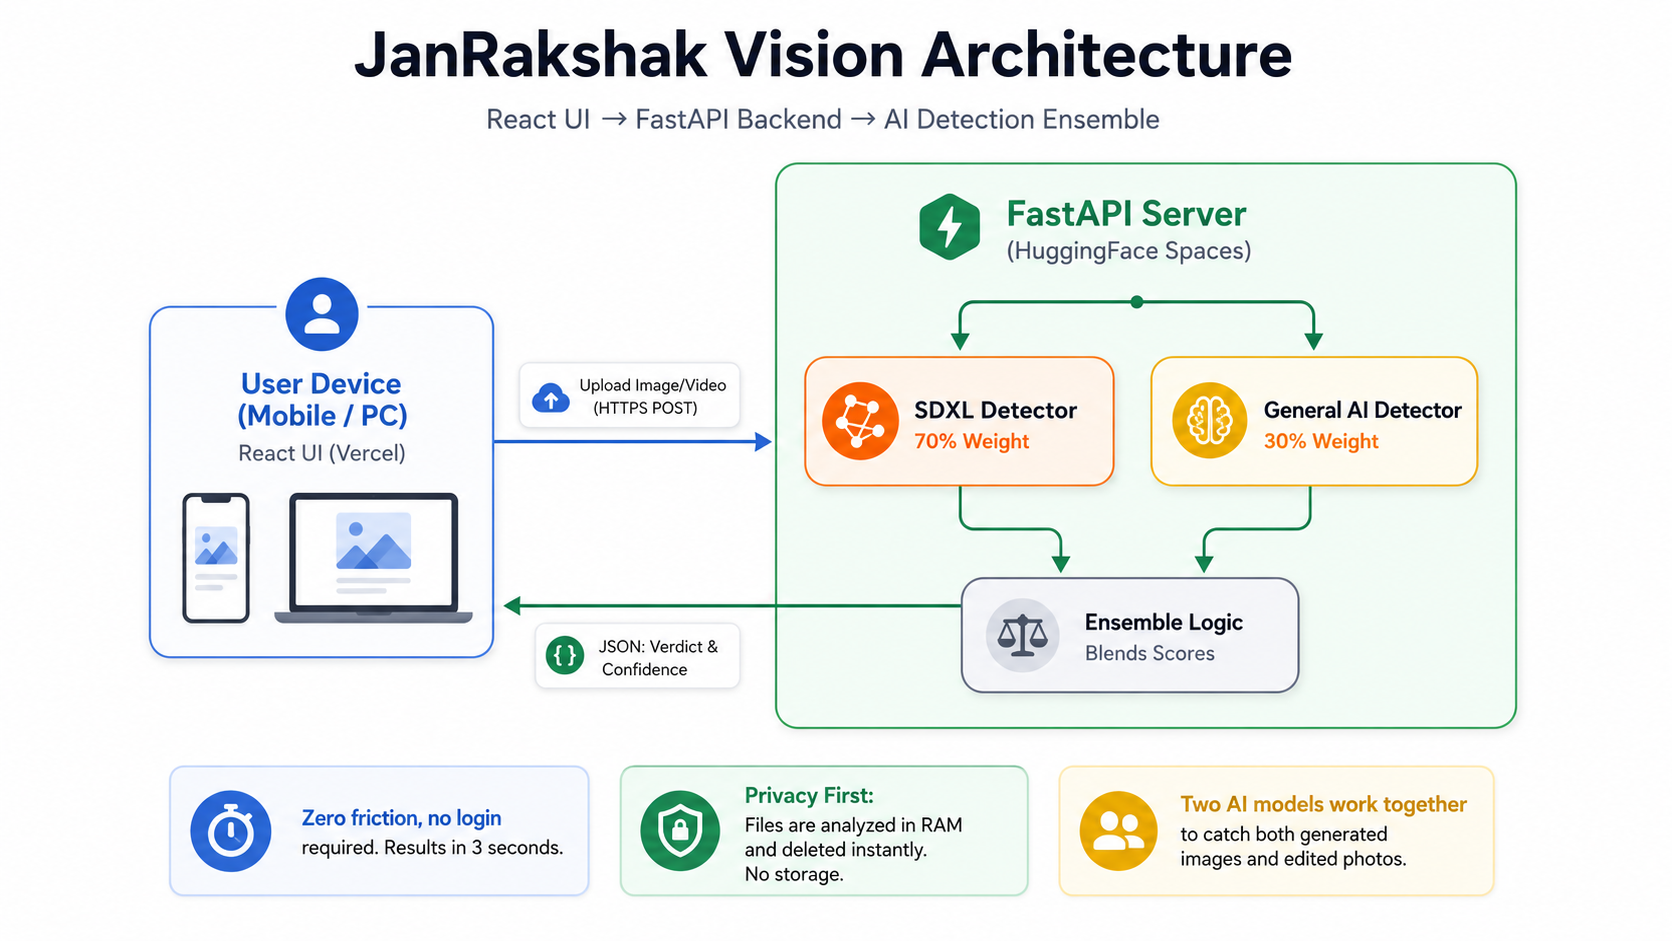
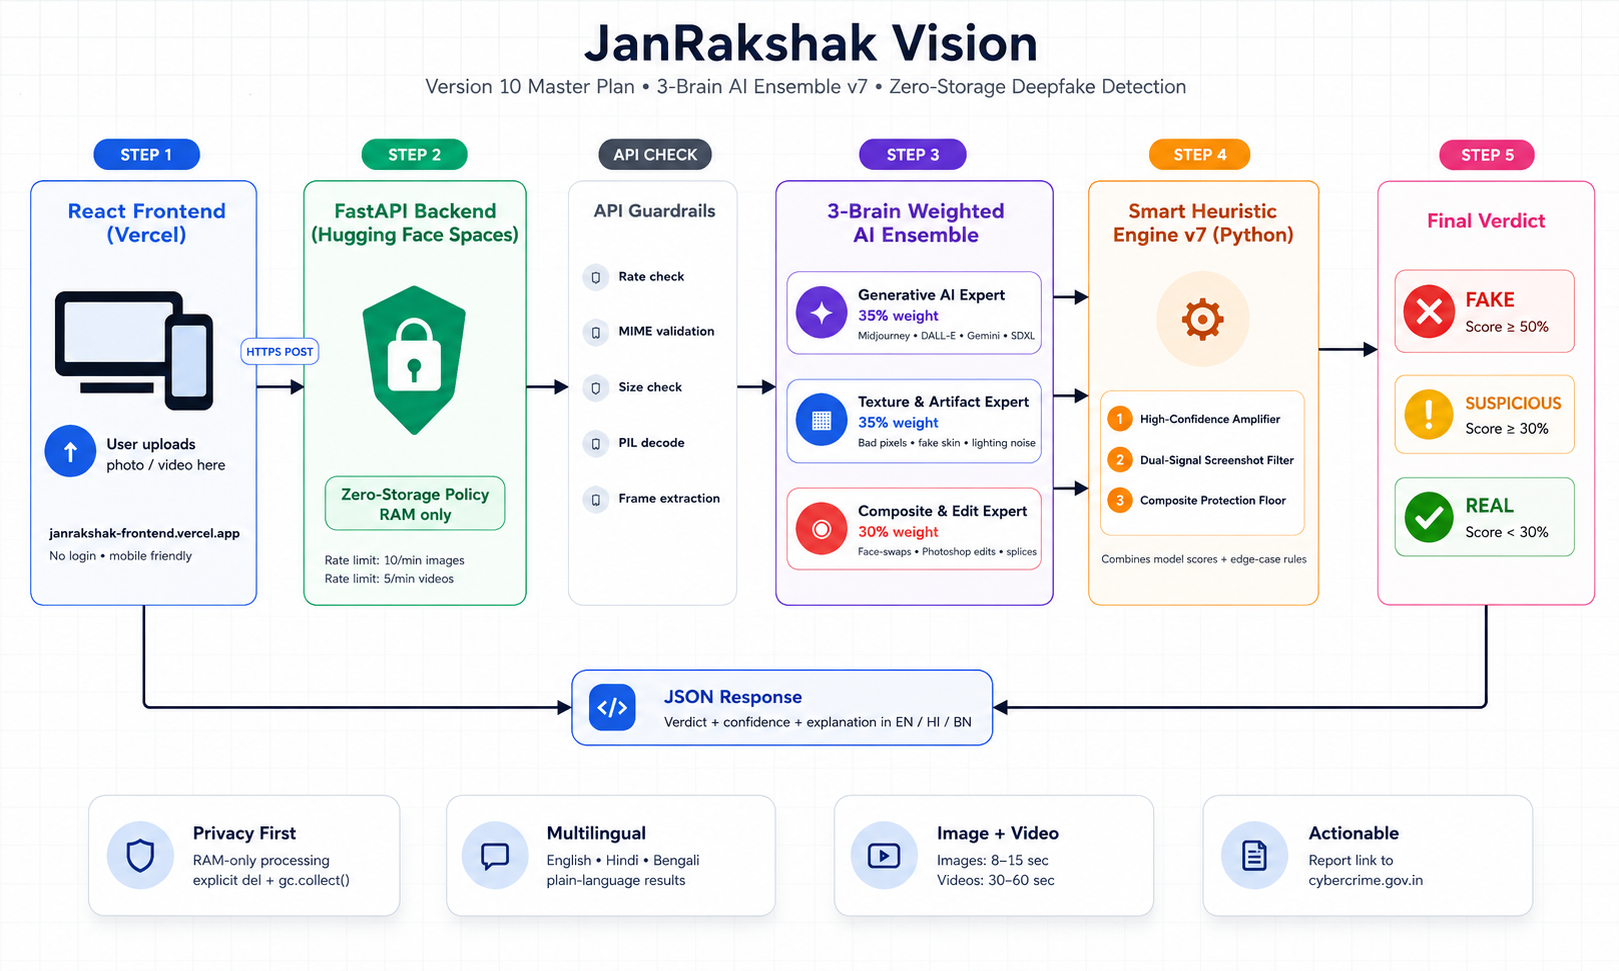
update

Changed region(s): [[0.0309, 0.0308, 0.9883, 0.9554], [0.0309, 0.1233, 0.1544, 0.2465], [0.3397, 0.2774, 0.4324, 0.3082]]

diff --git a/src/components/Navbar.jsx b/src/components/Navbar.jsx
@@ -1,6 +1,6 @@
 import { useState } from 'react'
 import { useTranslation } from 'react-i18next'
-import { Shield, Settings, X, Sun, Moon } from 'lucide-react'
+import { Settings, X, Sun, Moon } from 'lucide-react'
 import { useTheme } from '../contexts/ThemeContext'
 import LanguageSwitcher from './LanguageSwitcher'
 import ThemePicker from './ThemePicker'
@@ -18,9 +18,8 @@ export default function Navbar({ analysisHistory = [] }) {
 
         {/* Brand */}
         <div className="flex items-center gap-2">
-          <div className="w-8 h-8 rounded-lg flex items-center justify-center"
-            style={{ background: 'linear-gradient(135deg, var(--color-primary), var(--color-primary-dark))' }}>
-            <Shield size={17} color="white" />
+          <div className="w-8 h-8 flex items-center justify-center overflow-hidden">
+            <img src="/logo.png" alt="JanRakshak Logo" className="w-full h-full object-contain" />
           </div>
           <div>
             <span className="font-bold text-sm leading-none" style={{ color: 'var(--color-text)' }}>

diff --git a/index.html b/index.html
@@ -2,7 +2,7 @@
 <html lang="en">
   <head>
     <meta charset="UTF-8" />
-    <link rel="icon" type="image/svg+xml" href="/favicon.svg" />
+    <link rel="icon" type="image/png" href="/logo.png" />
     <meta name="viewport" content="width=device-width, initial-scale=1.0" />
     <title>JanRakshak Vision — AI Deepfake &amp; Fake Image Detector</title>
     <meta name="description" content="Free AI-powered deepfake and fake image detector for India. Upload any photo or video to check if it’s AI-generated, manipulated, or real. Supports Hindi, Bengali, and English. Zero-storage privacy." />
